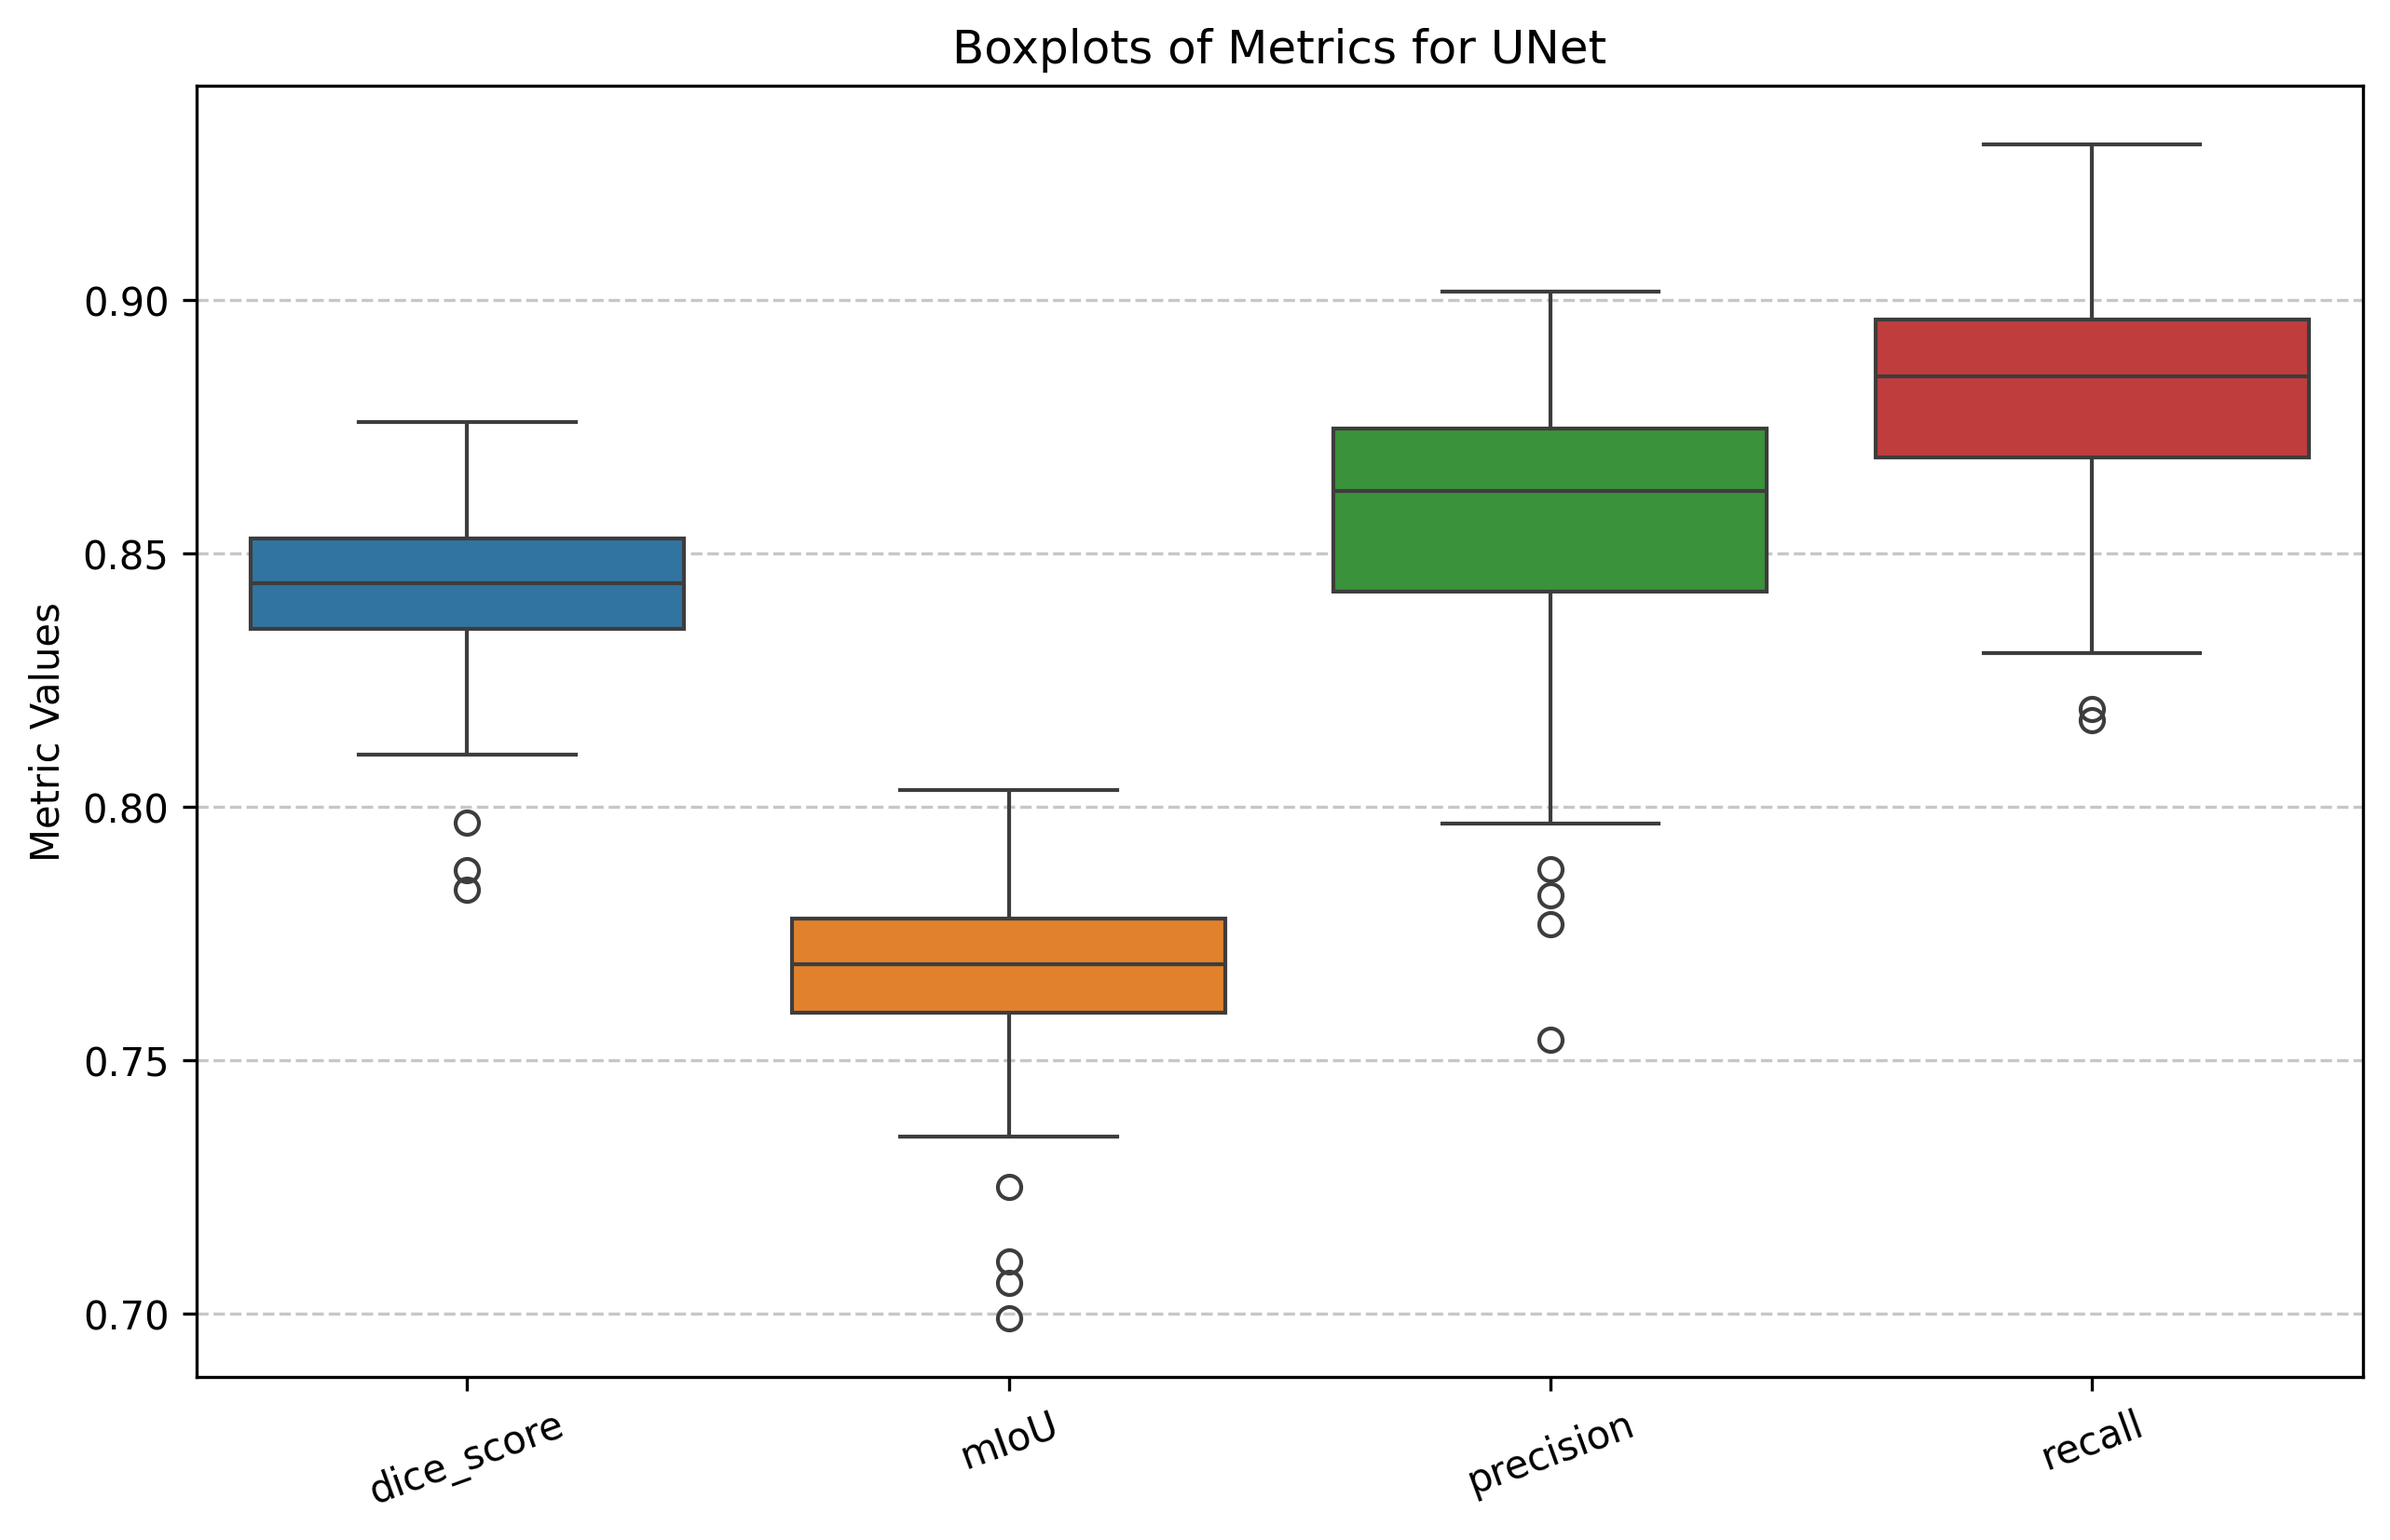
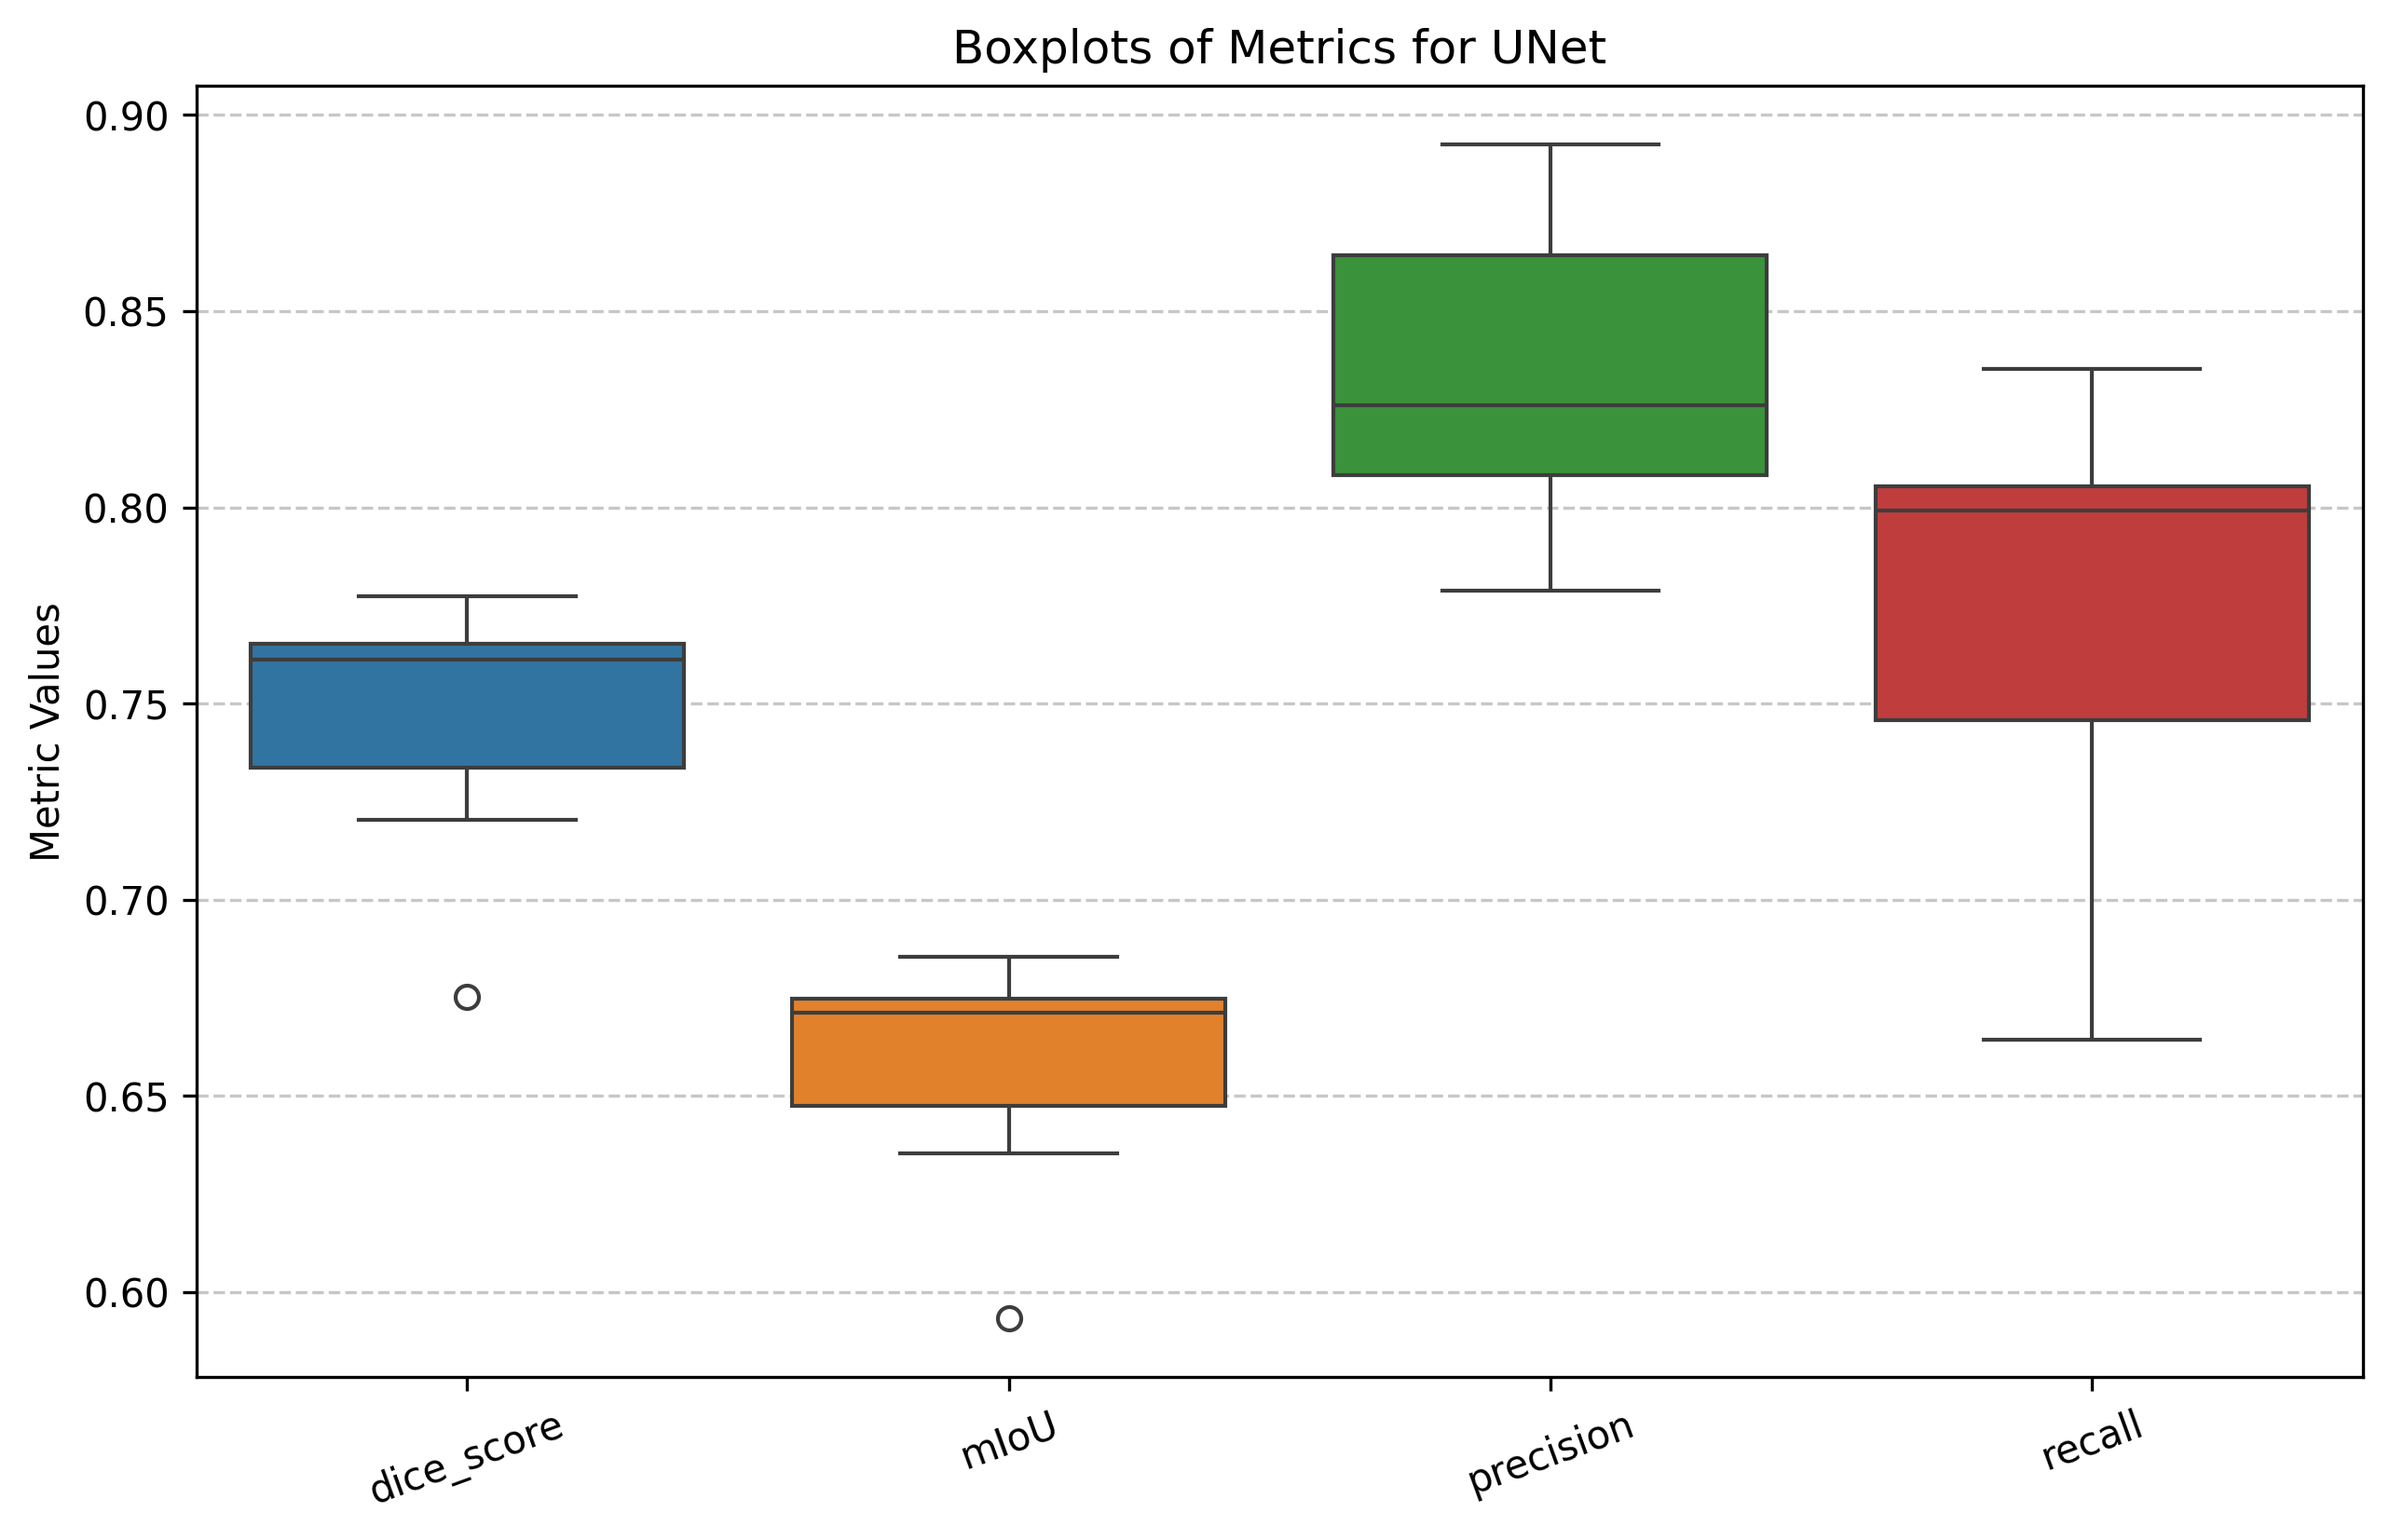
skip all reuslts

diff --git a/analyse_results.py b/analyse_results.py
@@ -4,7 +4,7 @@ import matplotlib.pyplot as plt
 import seaborn as sns
 
 # File path
-file_path = "training_results.txt"
+file_path = "J3-skip-all-training_results.txt"
 
 # Updated regex pattern to extract the two dictionaries
 dict_pattern = re.compile(r"Run \d+: (\{.*?\}), Credible Intervals: (\{.*?\})")
